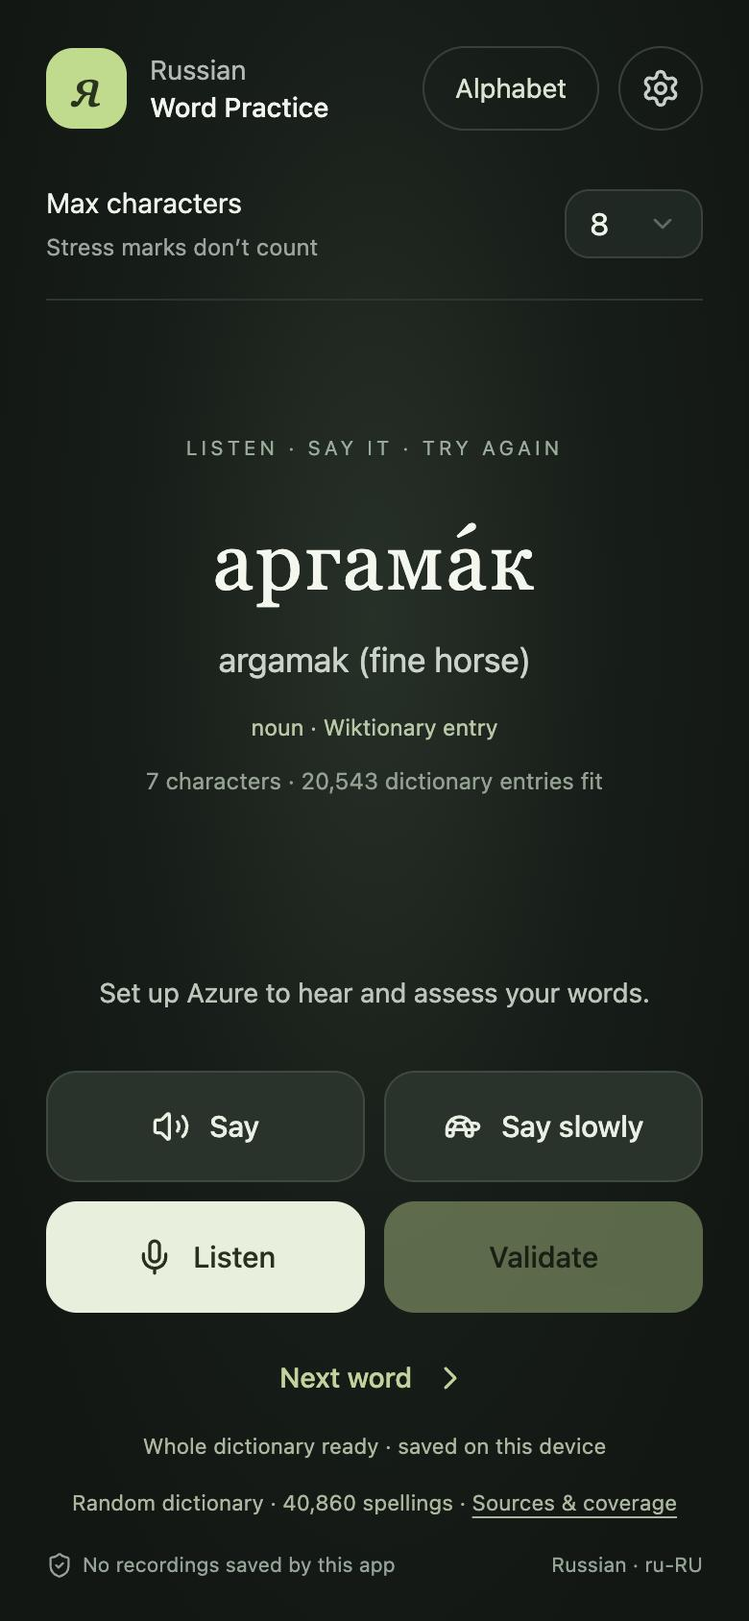
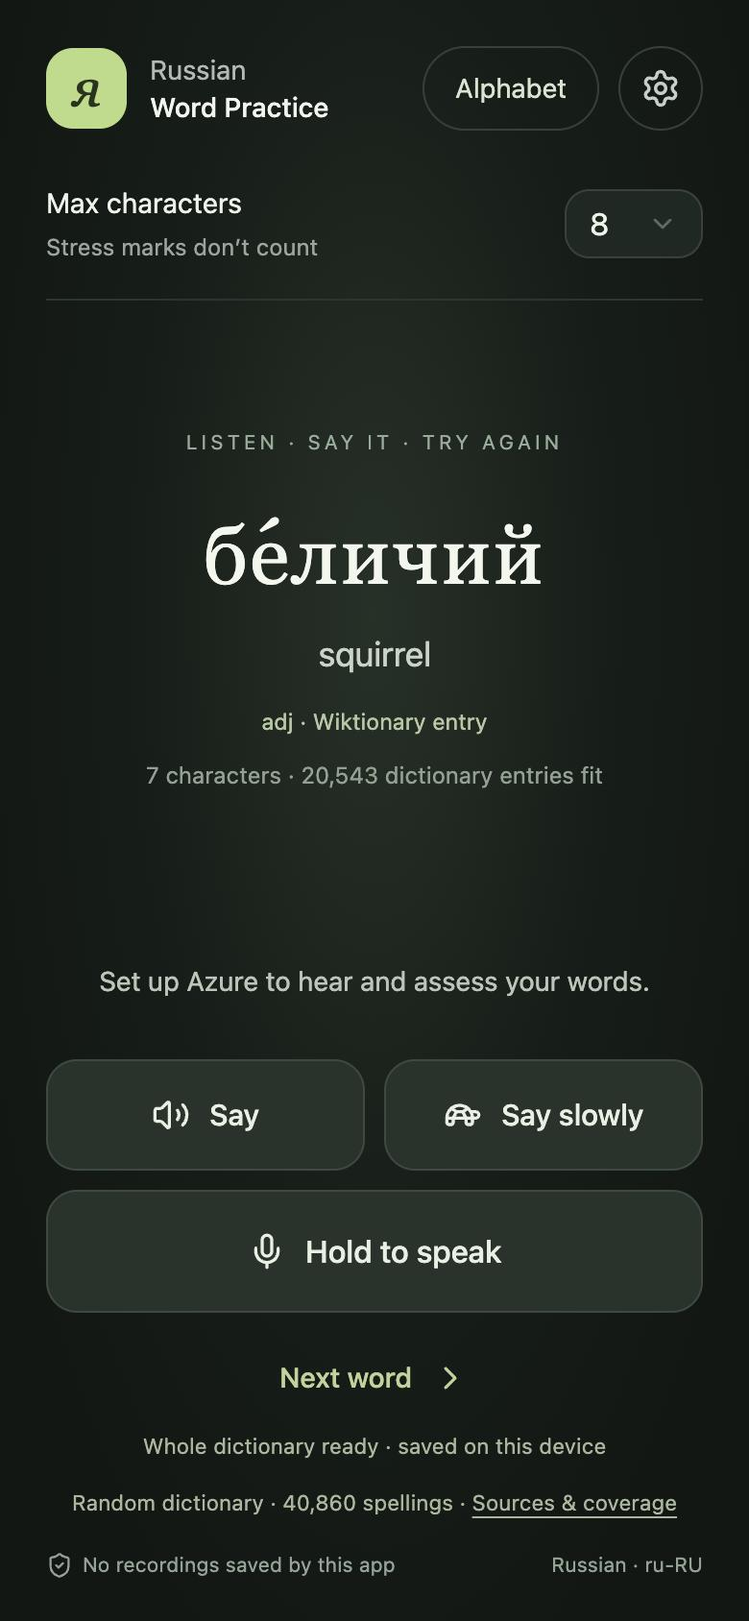
Replace Listen and Validate with one hold-to-speak button
- Hold to record, release to send; quick taps and releases before the
  mic is ready send nothing and explain how to hold. Recording stops at
  8 s while held; Space/Enter work too.
- "Speak now" appears only once real audio arrives (Bluetooth headsets
  send silence while switching profiles); browser noise suppression and
  echo cancellation are off; a Bluetooth mic hint accompanies rough scores.
- The button matches the Say buttons and turns the recording colour
  while held.
- Hiding the app only stops an active recording or playback, instead of
  always showing a "stopped" message and cancelling word loading.
- README and screenshot updated.

diff --git a/app/practice.tsx b/app/practice.tsx
@@ -13,16 +13,16 @@ import {createSpeechClient,readRememberedKey,readRememberedApproval,saveRemember
 import { toWav,trimSilence } from '../lib/audio.mjs';
 type Result={kind:string;message?:string;accuracy?:number;recognized?:string;lowConfidence?:boolean};
 export default function Practice(){
- const [word,setWord]=useState<Word>(initialWord),[max,setMax]=useState(8),[voice,setVoice]=useState('Svetlana'),[phase,setPhase]=useState('idle'),[result,setResult]=useState<Result|null>(null),[message,setMessage]=useState(''),[settings,setSettings]=useState(false),[config,setConfig]=useState({configured:false,enabled:false,setupReady:false,remembered:false}),[key,setKey]=useState(''),[remember,setRemember]=useState(true),[consent,setConsent]=useState(false),[enable,setEnable]=useState(false),[saving,setSaving]=useState(false),[seconds,setSeconds]=useState(0),[letters,setLetters]=useState(false);
+ const [word,setWord]=useState<Word>(initialWord),[max,setMax]=useState(8),[voice,setVoice]=useState('Svetlana'),[phase,setPhase]=useState('idle'),[result,setResult]=useState<Result|null>(null),[message,setMessage]=useState(''),[settings,setSettings]=useState(false),[config,setConfig]=useState({configured:false,enabled:false,setupReady:false,remembered:false}),[key,setKey]=useState(''),[remember,setRemember]=useState(true),[consent,setConsent]=useState(false),[enable,setEnable]=useState(false),[saving,setSaving]=useState(false),[seconds,setSeconds]=useState(0),[letters,setLetters]=useState(false),[micLive,setMicLive]=useState(false);
  const committedMax=useRef(8),requestedMax=useRef(8),epoch=useRef(0),abort=useRef<AbortController|null>(null),play=useRef<HTMLAudioElement|null>(null),objectUrl=useRef(''),stream=useRef<MediaStream|null>(null),context=useRef<AudioContext|null>(null),node=useRef<AudioWorkletNode|null>(null),samples=useRef<Float32Array[]>([]),sampleRate=useRef(48000),timer=useRef<ReturnType<typeof setInterval>|null>(null),wav=useRef<ArrayBuffer|null>(null),captured=useRef(0);
  const [dictionaryStatus,setDictionaryStatus]=useState('Downloading the whole dictionary…');
- const keyRef=useRef(''),speech=useRef<any>(null),spoken=useRef(new Map<string,Blob>());
+ const keyRef=useRef(''),speech=useRef<any>(null),spoken=useRef(new Map<string,Blob>()),signalAt=useRef(-1),bluetooth=useRef(false),holding=useRef(false);
  useEffect(()=>subscribeDictionaryStatus(setDictionaryStatus),[]);
  function browserStorage(){try{return window.localStorage;}catch{return undefined;}}
  function stopMic(){if(timer.current)clearInterval(timer.current);timer.current=null;node.current?.disconnect();node.current=null;stream.current?.getTracks().forEach(t=>t.stop());stream.current=null;void context.current?.close();context.current=null;}
  function cancel(){requestedMax.current=committedMax.current;epoch.current++;abort.current?.abort();abort.current=null;play.current?.pause();play.current=null;if(objectUrl.current)URL.revokeObjectURL(objectUrl.current);objectUrl.current='';stopMic();samples.current=[];wav.current=null;captured.current=0;setPhase('idle');setSeconds(0);}
  useEffect(()=>{const storage=browserStorage();speech.current=createSpeechClient({storage});keyRef.current=readRememberedKey(storage);const approved=readRememberedApproval(storage);setConsent(approved);setEnable(approved);setConfig({configured:!!keyRef.current,enabled:approved,setupReady:true,remembered:!!keyRef.current});void next(8);if('serviceWorker'in navigator)navigator.serviceWorker.register('/sw.js').catch(()=>{});return ()=>{cancel();keyRef.current='';};},[]);
- useEffect(()=>{const hide=()=>{if(document.hidden){cancel();setMessage('Recording or playback stopped while the app was hidden.');}};document.addEventListener('visibilitychange',hide);return()=>document.removeEventListener('visibilitychange',hide);},[]);
+ useEffect(()=>{const hide=()=>{if(document.hidden&&(stream.current||play.current)){cancel();setMessage('Recording or playback stopped while the app was hidden.');}};document.addEventListener('visibilitychange',hide);return()=>document.removeEventListener('visibilitychange',hide);},[]);
  async function next(limit=requestedMax.current){cancel();requestedMax.current=limit;setResult(null);setMessage('');const run=epoch.current;setPhase('word-loading');abort.current=new AbortController();try{const w:any=await chooseWord(limit,word,abort.current.signal);if(run!==epoch.current)return;if(!w||!Number.isInteger(w.id)||typeof w.text!=='string'||typeof w.stress!=='string'||typeof w.meaning!=='string'||typeof w.pos!=='string'||typeof w.source!=='string'||!Number.isInteger(w.length)||w.length<1||w.length>limit)throw new Error('The dictionary response was incomplete. Try Next word again.');setWord(w);committedMax.current=limit;setMax(limit);setPhase('idle');}catch(e:any){if(run===epoch.current){requestedMax.current=committedMax.current;setPhase('idle');setMessage(e.message||'Could not load a word. Try Next word again.');}}}
  async function playPrepared(run=epoch.current){
   const a=play.current;if(!a||run!==epoch.current)return;
@@ -42,9 +42,25 @@ export default function Practice(){
   const cacheKey=[voice,slow,target.text,target.ipa].join('|');let b=spoken.current.get(cacheKey);
   if(!b){b=await speech.current.say({key:keyRef.current,word:target,slow,voice,signal:abort.current.signal}) as Blob;spoken.current.set(cacheKey,b);}
   if(run!==epoch.current)return;objectUrl.current=URL.createObjectURL(b);const a=new Audio(objectUrl.current);play.current=a;a.onended=()=>{if(run===epoch.current){cancel();}};a.onerror=()=>{if(run===epoch.current){cancel();setMessage('Playback failed. Try Say again.');}};await playPrepared(run);}catch(e:any){if(run===epoch.current){cancel();setMessage(e.message||'Playback could not start.');}}}
- function finishCapture(){if(!stream.current)return;stopMic();wav.current=toWav(trimSilence(samples.current,sampleRate.current),sampleRate.current);samples.current=[];setPhase('recorded');setMessage('Ready. Validate sends this clip to Azure.');}
- async function listen(){cancel();setMessage('');setResult(null);if(!config.enabled){setSettings(true);return;}const run=epoch.current;setPhase('permission');try{if(!navigator.mediaDevices?.getUserMedia)throw new Error('Microphone access requires a supported browser and HTTPS.');const s=await navigator.mediaDevices.getUserMedia({audio:{channelCount:1,echoCancellation:true,noiseSuppression:true},video:false});if(run!==epoch.current){s.getTracks().forEach(t=>t.stop());return;}stream.current=s;const c=new AudioContext();context.current=c;sampleRate.current=c.sampleRate;await c.audioWorklet.addModule('/recorder-worklet.js');await c.resume();if(run!==epoch.current){s.getTracks().forEach(t=>t.stop());void c.close();return;}const n=new AudioWorkletNode(c,'practice-recorder');node.current=n;const source=c.createMediaStreamSource(s);source.connect(n);const muted=c.createGain();muted.gain.value=0;n.connect(muted).connect(c.destination);n.port.onmessage=e=>{if(run!==epoch.current||!stream.current)return;const data=e.data as Float32Array;const remaining=Math.max(0,sampleRate.current*8-captured.current);if(remaining>0){const part=data.slice(0,remaining);samples.current.push(part);captured.current+=part.length;}if(captured.current>=sampleRate.current*8)finishCapture();};setPhase('recording');timer.current=setInterval(()=>setSeconds(Math.min(8,Math.floor(captured.current/sampleRate.current))),200);}catch(e:any){if(run===epoch.current){cancel();setMessage(e.name==='NotAllowedError'?'Microphone permission was denied. Allow it in your browser settings, then try again.':e.message||'Could not start the microphone.');}}}
- async function validate(){if(phase==='recording')finishCapture();if(!wav.current)return;const run=epoch.current,body=wav.current;wav.current=null;setPhase('assessing');setMessage('');abort.current=new AbortController();try{const j=await speech.current.assess({key:keyRef.current,word,audio:body,signal:abort.current.signal});if(run===epoch.current){setResult(j);setPhase('idle');}}catch(e:any){if(run===epoch.current){setMessage(e.message||'Assessment failed. Record again.');setPhase('idle');}}}
+ function finishCapture(){if(!stream.current)return;stopMic();wav.current=toWav(trimSilence(samples.current,sampleRate.current),sampleRate.current);samples.current=[];setPhase('recorded');setMessage('Release to check your word.');}
+ async function listen(){cancel();setMessage('');setResult(null);if(!config.enabled){holding.current=false;setSettings(true);return;}const run=epoch.current;setPhase('permission');try{if(!navigator.mediaDevices?.getUserMedia)throw new Error('Microphone access requires a supported browser and HTTPS.');const s=await navigator.mediaDevices.getUserMedia({audio:{channelCount:1,echoCancellation:false,noiseSuppression:false,autoGainControl:true},video:false});if(run!==epoch.current){s.getTracks().forEach(t=>t.stop());return;}stream.current=s;
+  // Browser noise suppression distorts speech for recognition; nothing plays while recording, so echo cancellation is not needed either.
+  bluetooth.current=/bluetooth|airpods|headset|hands-?free|buds/i.test(s.getAudioTracks?.()[0]?.label??'');signalAt.current=-1;setMicLive(false);const c=new AudioContext();context.current=c;sampleRate.current=c.sampleRate;await c.audioWorklet.addModule('/recorder-worklet.js');await c.resume();if(run!==epoch.current){s.getTracks().forEach(t=>t.stop());void c.close();return;}const n=new AudioWorkletNode(c,'practice-recorder');node.current=n;const source=c.createMediaStreamSource(s);source.connect(n);const muted=c.createGain();muted.gain.value=0;n.connect(muted).connect(c.destination);
+  // Released before the microphone was ready (for example to answer the permission prompt): nothing to check.
+  if(!holding.current){cancel();setMessage('Hold the button while you say the word.');return;}n.port.onmessage=e=>{if(run!==epoch.current||!stream.current)return;const data=e.data as Float32Array;
+   // Bluetooth headsets switch to their call profile when recording starts and send silence until then; say "Speak now" only once real audio arrives.
+   if(signalAt.current<0&&data.some(v=>v!==0))signalAt.current=captured.current;
+   const remaining=Math.max(0,sampleRate.current*8-captured.current);if(remaining>0){const part=data.slice(0,remaining);samples.current.push(part);captured.current+=part.length;}
+   if(signalAt.current>=0&&captured.current-signalAt.current>=sampleRate.current*0.2)setMicLive(true);if(captured.current>=sampleRate.current*8)finishCapture();};setPhase('recording');timer.current=setInterval(()=>setSeconds(Math.min(8,Math.floor(captured.current/sampleRate.current))),200);}catch(e:any){if(run===epoch.current){cancel();setMessage(e.name==='NotAllowedError'?'Microphone permission was denied. Allow it in your browser settings, then try again.':e.message||'Could not start the microphone.');}}}
+ // One button: hold to record, release to send the clip to Azure.
+ function press(){holding.current=true;void listen();}
+ function release(){
+  if(!holding.current)return;holding.current=false;
+  if(!stream.current&&!wav.current)return;
+  if(!wav.current&&captured.current<sampleRate.current*0.3){cancel();setMessage('Hold the button while you say the word.');return;}
+  void validate();
+ }
+ async function validate(){finishCapture();if(!wav.current)return;const run=epoch.current,body=wav.current;wav.current=null;setPhase('assessing');setMessage('');abort.current=new AbortController();try{const j=await speech.current.assess({key:keyRef.current,word,audio:body,signal:abort.current.signal});if(run===epoch.current){setResult(j);setPhase('idle');}}catch(e:any){if(run===epoch.current){setMessage(e.message||'Assessment failed. Record again.');setPhase('idle');}}}
  async function save(e:React.FormEvent){e.preventDefault();if(saving||!config.setupReady)return;setSaving(true);setMessage('');try{const value=key.trim()||keyRef.current;if(!validKey(value))throw new Error('Enter a valid Azure Speech key.');if(!consent)throw new Error('Approve direct Azure requests to continue.');saveRememberedKey(browserStorage(),value,remember,enable);keyRef.current=value;setKey('');setConfig({configured:true,enabled:enable,setupReady:true,remembered:remember});setSettings(false);setMessage(!enable?'Key ready on this device. Azure calls remain disabled.':remember?'Setup saved on this device. You won’t need to enter it again.':'Direct Azure calls enabled for this session.');}catch(e:any){setMessage(e.message||'Browser storage is unavailable. Leave Remember unchecked.');}finally{setSaving(false);}}
  function disconnect(){cancel();keyRef.current='';setKey('');setConsent(false);setEnable(false);setConfig({configured:false,enabled:false,setupReady:true,remembered:false});try{saveRememberedKey(browserStorage(),'',false);setRemember(true);setMessage('Key forgotten on this device. Azure requests already sent may still finish.');setSettings(false);}catch{setMessage('Key cleared from memory. Browser storage removal failed; clear this site’s stored data to remove the saved key.');}}
  useEffect(()=>{const mc=(document as any).modelContext;if(!mc?.registerTool)return;const lifecycle=new AbortController();void Promise.resolve(mc.registerTool({name:'read_practice_word',description:'Read the displayed Russian word and its English meaning. Does not record or contact Azure.',inputSchema:{type:'object',properties:{},additionalProperties:false},annotations:{readOnlyHint:true},execute:(input:any)=>{if(!input||Object.keys(input).length)throw new Error('No arguments expected');return {word:word.stress,meaning:word.meaning,maxCharacters:max};}},{signal:lifecycle.signal})).catch(()=>{});return()=>lifecycle.abort();},[word,max]);
@@ -52,8 +68,8 @@ export default function Practice(){
  return <main className="practice-shell"><header><div className="brand"><span className="brandmark" lang="ru">я</span><span>Russian<br/><strong>Word Practice</strong></span></div><div className="header-actions"><button className="pill-button" disabled={!config.setupReady} onClick={()=>{cancel();setMessage('');setLetters(true);}}>Alphabet</button><button className="icon-button" aria-label="Open Azure setup" disabled={!config.setupReady} onClick={()=>{cancel();setSettings(true);}}><Settings size={21}/></button></div></header>
  <section className="toolbar"><label htmlFor="max">Max characters <span>Stress marks don’t count</span></label><Select value={String(max)} onValueChange={v=>{const n=Number(v);void next(n);}}><SelectTrigger id="max" className="number-select"><SelectValue/></SelectTrigger><SelectContent>{Array.from({length:maxWordLength},(_,i)=>i+1).map(n=><SelectItem key={n} value={String(n)}>{n}</SelectItem>)}</SelectContent></Select></section>
  <section className="word-stage" aria-label="Current practice word"><div className="eyebrow">LISTEN · SAY IT · TRY AGAIN</div><h1 lang="ru" style={{fontSize:`min(4.25rem, ${Math.min(10.8,130/word.length)}vw)`}}>{word.stress}</h1><p className="meaning">{word.meaning}</p><a className="dictionary-source" href={word.source} target="_blank" rel="noreferrer">{word.pos} · Wiktionary entry</a><span className="word-count">{word.length} characters · {lengthCounts[String(max) as keyof typeof lengthCounts].toLocaleString()} dictionary entries fit</span></section>
- <section className="feedback" aria-live="polite">{phase==='word-loading'?<p>{dictionaryStatus}</p>:phase==='recording'?<div className="recording"><span className="pulse"/>Listening… {seconds}s / 8s</div>:phase==='assessing'?<p>Checking with Azure…</p>:phase==='loading'?<p>Preparing the Russian voice…</p>:phase==='playback-starting'?<p>Starting audio…</p>:phase==='playing'?<p>Listen to the word</p>:phase==='permission'?<p>Waiting for microphone permission…</p>:result?.kind==='scored'?<div className="score"><strong>{result.accuracy}<small>/100</small></strong><div>Azure word accuracy<span>{result.lowConfidence?'Azure wasn’t sure what it heard, so treat this as rough':'A practice estimate, not a stress check'}</span></div></div>:<p>{result?.message||message||(config.enabled?'One word. As many tries as you need.':!config.setupReady?'Restoring your setup…':config.remembered?'Saved key restored. Approve and enable Azure calls once in Settings to finish setup.':config.configured?'Your key is ready. Enable Azure calls for this session in Settings.':'Set up Azure to hear and assess your words.')}</p>}</section>
- <div className="controls">{phase==='playback-ready'&&<button onClick={()=>void playPrepared()}>Play audio</button>}<div className="two"><button onClick={()=>say()} disabled={!config.setupReady||phase==='assessing'||phase==='word-loading'}><Volume2/>Say</button><button onClick={()=>say(true)} disabled={!config.setupReady||phase==='assessing'||phase==='word-loading'}><Turtle/>Say slowly</button></div><div className="two"><button className={phase==='recording'?'listening':'listen'} onClick={listen} disabled={!config.setupReady||phase==='permission'||phase==='assessing'||phase==='word-loading'}><Mic/>{phase==='recording'?'Restart':'Listen'}</button><button className="validate" onClick={validate} disabled={!['recording','recorded'].includes(phase)}>Validate</button></div><button className="next" onClick={()=>next()}>Next word <ChevronRight size={19}/></button></div>
+ <section className="feedback" aria-live="polite">{phase==='word-loading'?<p>{dictionaryStatus}</p>:phase==='recording'?<div className="recording"><span className="pulse"/>{micLive?`Speak now… ${seconds}s / 8s`:'Starting microphone…'}</div>:phase==='assessing'?<p>Checking with Azure…</p>:phase==='loading'?<p>Preparing the Russian voice…</p>:phase==='playback-starting'?<p>Starting audio…</p>:phase==='playing'?<p>Listen to the word</p>:phase==='permission'?<p>Waiting for microphone permission…</p>:result?.kind==='scored'?<div className="score"><strong>{result.accuracy}<small>/100</small></strong><div>Azure word accuracy<span>{result.lowConfidence?(bluetooth.current?'Azure wasn’t sure what it heard. Bluetooth mics record at phone-call quality; the phone’s own mic works better':'Azure wasn’t sure what it heard, so treat this as rough'):'A practice estimate, not a stress check'}</span></div></div>:<p>{result?.message||message||(config.enabled?'One word. As many tries as you need.':!config.setupReady?'Restoring your setup…':config.remembered?'Saved key restored. Approve and enable Azure calls once in Settings to finish setup.':config.configured?'Your key is ready. Enable Azure calls for this session in Settings.':'Set up Azure to hear and assess your words.')}</p>}</section>
+ <div className="controls">{phase==='playback-ready'&&<button onClick={()=>void playPrepared()}>Play audio</button>}<div className="two"><button onClick={()=>say()} disabled={!config.setupReady||phase==='assessing'||phase==='word-loading'}><Volume2/>Say</button><button onClick={()=>say(true)} disabled={!config.setupReady||phase==='assessing'||phase==='word-loading'}><Turtle/>Say slowly</button></div><button className={`speak${['permission','recording','recorded'].includes(phase)?' listening':''}`} disabled={!config.setupReady||phase==='assessing'||phase==='word-loading'} onPointerDown={e=>{if(e.button>0)return;e.currentTarget.setPointerCapture?.(e.pointerId);press();}} onPointerUp={release} onPointerCancel={()=>{if(holding.current){holding.current=false;cancel();setMessage('Recording cancelled.');}}} onKeyDown={e=>{if((e.key===' '||e.key==='Enter')&&!e.repeat){e.preventDefault();press();}}} onKeyUp={e=>{if(e.key===' '||e.key==='Enter'){e.preventDefault();release();}}} onContextMenu={e=>e.preventDefault()}><Mic/>{phase==='assessing'?'Checking…':['permission','recording','recorded'].includes(phase)?'Release to check':'Hold to speak'}</button><button className="next" onClick={()=>next()}>Next word <ChevronRight size={19}/></button></div>
  <p className="dictionary-note" role="status">{dictionaryStatus}</p><p className="dictionary-note">Random dictionary · {dictionarySize.toLocaleString()} spellings · <a href="/dictionary-sources" target="_blank" rel="noreferrer">Sources &amp; coverage</a></p><footer>{active?<button className="text-button" onClick={()=>{const sent=phase==='assessing',choosing=phase==='word-loading';cancel();setMessage(choosing?'Word selection cancelled.':sent?'Stopped waiting. Azure may already be processing this clip.':'Cancelled. Your clip was discarded.');}}><X size={14}/>Cancel</button>:<span><ShieldCheck size={14}/>No recordings saved by this app</span>}<span>Russian · ru-RU</span></footer>
- <Dialog open={settings} onOpenChange={v=>{if(!saving){setSettings(v);if(!v)setKey('');}}}><DialogContent className="setup-dialog"><DialogHeader><DialogTitle>Azure Speech setup</DialogTitle><DialogDescription>Your own Azure account · East US</DialogDescription></DialogHeader><form onSubmit={save}><p>Say sends the displayed word to Azure. Validate sends up to 8 seconds of your voice directly from your browser to Microsoft Azure in East US. Recordings and generated speech stay in memory and are never saved by this app.</p><p className="muted">Azure processes these requests under its own service terms. Russian scores are approximate: they do not identify stress errors or reliably diagnose individual sounds.</p><label className="field">Voice<Select value={voice} onValueChange={setVoice}><SelectTrigger><SelectValue/></SelectTrigger><SelectContent><SelectItem value="Svetlana">Svetlana</SelectItem><SelectItem value="Dmitry">Dmitry</SelectItem></SelectContent></Select></label><p className="muted">Both voices are supported. Dictionary IPA is adapted for Azure; synthesized pronunciations still need listening checks.</p><label className="field">{config.configured?'Replacement Azure Speech key (optional)':'Your Azure Speech key'}<input type="password" value={key} onChange={e=>setKey(e.target.value)} autoComplete="off" spellCheck={false} required={!config.configured} placeholder={config.configured?'Key ready on this device; enter to replace':'Enter your own East US resource key'}/></label><p className="muted">{config.remembered?'Your saved key is ready. You do not need to enter your key again.':config.configured?'Your key is ready for this session. Leave the replacement field blank to keep it.':'Your key never goes to this app’s host. Each person uses their own Azure account.'}</p><p className="muted">Remember keeps your key and these approvals on this browser through reloads and app updates, so you set up once. Without Remember, closing or reloading clears them. Forget key removes both.</p><label className="check"><Checkbox checked={remember} onCheckedChange={v=>setRemember(v===true)}/><span>Remember my key on this device. This stores it in browser storage, readable by this app and anyone with access to this browser profile. Don’t use on a shared device.</span></label><label className="check"><Checkbox checked={consent} onCheckedChange={v=>setConsent(v===true)}/><span>I approve sending my key directly to Microsoft Azure for authentication, and displayed words and submitted recordings to Azure Speech in East US.</span></label><label className="check"><Checkbox checked={enable} onCheckedChange={v=>setEnable(v===true)}/><span>Enable Azure calls. Azure charges may apply; use Azure’s quotas and budgets to cap spending.</span></label><button className="validate full" disabled={!config.setupReady||!consent||(!key&&!config.configured)||saving}>Save setup</button>{config.configured&&<button type="button" className="disconnect" disabled={saving} onClick={disconnect}>Forget key on this device</button>}<p className="muted">No audio or scores are saved. A short-lived Azure token is held in memory and used in Azure’s WebSocket connection URL. Clear the key here or rotate it in Azure to revoke access. Previously sent requests may still finish.</p><p className="setup-message" role="status">{message}</p></form></DialogContent></Dialog><Dialog open={letters} onOpenChange={v=>{setLetters(v);if(!v)cancel();}}><DialogContent className="setup-dialog alphabet-dialog"><DialogHeader><DialogTitle>Russian alphabet</DialogTitle><DialogDescription>33 letters · sounds in IPA</DialogDescription></DialogHeader><p className="alphabet-status" role="status">{phase==='loading'?'Preparing the Russian voice…':phase==='playback-starting'?'Starting audio…':phase==='playing'?'Listen':message||'Tap a letter to hear its sound. Unstressed vowels only occur inside words, so their button plays an example word.'}</p>{phase==='playback-ready'&&<button className="validate full" onClick={()=>void playPrepared()}>Play audio</button>}<ol className="alphabet">{alphabet.map(l=><li key={l.upper} className={l.kind}>{l.sound?<button className="letter" lang="ru" aria-label={`${l.upper} ${l.lower}, ${l.name}: play ${l.sound.ipa}`} disabled={phase==='assessing'} onClick={()=>void say(false,{text:l.lower,ipa:l.sound.say})}>{l.upper}{l.lower}</button>:<span className="letter" lang="ru">{l.upper}{l.lower}</span>}<span className="name" lang="ru">{l.name}</span>{l.sound&&<span className="ipa">{l.kind==='vowel'?'stressed ':''}{l.sound.ipa}</span>}{l.unstressed&&<button className="ipa unstressed" aria-label={`${l.lower} unstressed ${l.unstressed.ipa}: play ${l.unstressed.example}`} disabled={phase==='assessing'} onClick={()=>void say(false,{text:l.unstressed!.text})}>unstressed {l.unstressed.ipa}<span className="example" lang="ru">▶ {l.unstressed.example}</span></button>}{l.note&&<span className="note">{l.note}</span>}</li>)}</ol></DialogContent></Dialog></main>;
+ <Dialog open={settings} onOpenChange={v=>{if(!saving){setSettings(v);if(!v)setKey('');}}}><DialogContent className="setup-dialog"><DialogHeader><DialogTitle>Azure Speech setup</DialogTitle><DialogDescription>Your own Azure account · East US</DialogDescription></DialogHeader><form onSubmit={save}><p>Say sends the displayed word to Azure. Hold to speak records up to 8 seconds of your voice; releasing sends it directly from your browser to Microsoft Azure in East US. Recordings and generated speech stay in memory and are never saved by this app.</p><p className="muted">Azure processes these requests under its own service terms. Russian scores are approximate: they do not identify stress errors or reliably diagnose individual sounds.</p><label className="field">Voice<Select value={voice} onValueChange={setVoice}><SelectTrigger><SelectValue/></SelectTrigger><SelectContent><SelectItem value="Svetlana">Svetlana</SelectItem><SelectItem value="Dmitry">Dmitry</SelectItem></SelectContent></Select></label><p className="muted">Both voices are supported. Dictionary IPA is adapted for Azure; synthesized pronunciations still need listening checks.</p><label className="field">{config.configured?'Replacement Azure Speech key (optional)':'Your Azure Speech key'}<input type="password" value={key} onChange={e=>setKey(e.target.value)} autoComplete="off" spellCheck={false} required={!config.configured} placeholder={config.configured?'Key ready on this device; enter to replace':'Enter your own East US resource key'}/></label><p className="muted">{config.remembered?'Your saved key is ready. You do not need to enter your key again.':config.configured?'Your key is ready for this session. Leave the replacement field blank to keep it.':'Your key never goes to this app’s host. Each person uses their own Azure account.'}</p><p className="muted">Remember keeps your key and these approvals on this browser through reloads and app updates, so you set up once. Without Remember, closing or reloading clears them. Forget key removes both.</p><label className="check"><Checkbox checked={remember} onCheckedChange={v=>setRemember(v===true)}/><span>Remember my key on this device. This stores it in browser storage, readable by this app and anyone with access to this browser profile. Don’t use on a shared device.</span></label><label className="check"><Checkbox checked={consent} onCheckedChange={v=>setConsent(v===true)}/><span>I approve sending my key directly to Microsoft Azure for authentication, and displayed words and submitted recordings to Azure Speech in East US.</span></label><label className="check"><Checkbox checked={enable} onCheckedChange={v=>setEnable(v===true)}/><span>Enable Azure calls. Azure charges may apply; use Azure’s quotas and budgets to cap spending.</span></label><button className="validate full" disabled={!config.setupReady||!consent||(!key&&!config.configured)||saving}>Save setup</button>{config.configured&&<button type="button" className="disconnect" disabled={saving} onClick={disconnect}>Forget key on this device</button>}<p className="muted">No audio or scores are saved. A short-lived Azure token is held in memory and used in Azure’s WebSocket connection URL. Clear the key here or rotate it in Azure to revoke access. Previously sent requests may still finish.</p><p className="setup-message" role="status">{message}</p></form></DialogContent></Dialog><Dialog open={letters} onOpenChange={v=>{setLetters(v);if(!v)cancel();}}><DialogContent className="setup-dialog alphabet-dialog"><DialogHeader><DialogTitle>Russian alphabet</DialogTitle><DialogDescription>33 letters · sounds in IPA</DialogDescription></DialogHeader><p className="alphabet-status" role="status">{phase==='loading'?'Preparing the Russian voice…':phase==='playback-starting'?'Starting audio…':phase==='playing'?'Listen':message||'Tap a letter to hear its sound. Unstressed vowels only occur inside words, so their button plays an example word.'}</p>{phase==='playback-ready'&&<button className="validate full" onClick={()=>void playPrepared()}>Play audio</button>}<ol className="alphabet">{alphabet.map(l=><li key={l.upper} className={l.kind}>{l.sound?<button className="letter" lang="ru" aria-label={`${l.upper} ${l.lower}, ${l.name}: play ${l.sound.ipa}`} disabled={phase==='assessing'} onClick={()=>void say(false,{text:l.lower,ipa:l.sound.say})}>{l.upper}{l.lower}</button>:<span className="letter" lang="ru">{l.upper}{l.lower}</span>}<span className="name" lang="ru">{l.name}</span>{l.sound&&<span className="ipa">{l.kind==='vowel'?'stressed ':''}{l.sound.ipa}</span>}{l.unstressed&&<button className="ipa unstressed" aria-label={`${l.lower} unstressed ${l.unstressed.ipa}: play ${l.unstressed.example}`} disabled={phase==='assessing'} onClick={()=>void say(false,{text:l.unstressed!.text})}>unstressed {l.unstressed.ipa}<span className="example" lang="ru">▶ {l.unstressed.example}</span></button>}{l.note&&<span className="note">{l.note}</span>}</li>)}</ol></DialogContent></Dialog></main>;
 }

diff --git a/app/globals.css b/app/globals.css
@@ -6,3 +6,6 @@
 .dictionary-source{font-size:.73rem;color:#b4c8a3;text-underline-offset:3px;margin-bottom:10px}.dictionary-note{font-size:.7rem;color:#a7b79b;text-align:center;margin:3px 0 10px}.dictionary-note a,.sources-page a{text-decoration:underline;text-underline-offset:3px}.word-stage h1{max-width:100%;overflow-wrap:anywhere}.sources-page{max-width:760px;margin:0 auto;padding:30px 24px;line-height:1.65;color:#d3dfcb}.sources-page h1{font-size:2rem;margin:24px 0}.sources-page p{margin:18px 0}.sources-page a{color:#c5e697}
 .header-actions{display:flex;align-items:center;gap:10px}.pill-button{height:44px;padding:0 16px;border:1px solid #354039;border-radius:22px;background:transparent;color:#d6e3cf;font-size:.875rem}.alphabet-status{min-height:2.9em;color:#c8d3c6}.alphabet{list-style:none;margin:0;padding:0;display:grid;grid-template-columns:repeat(auto-fill,minmax(96px,1fr));gap:8px}.alphabet li{display:flex;flex-direction:column;align-items:center;gap:3px;padding:10px 6px;border:1px solid #33402f;border-radius:12px;background:#1f2a22;text-align:center}.alphabet .letter{font-family:Georgia,"Times New Roman",serif;font-size:1.9rem;letter-spacing:.06em;line-height:1.15;background:transparent;border:0;color:#f2f7ec;padding:2px 8px;border-radius:8px}.alphabet button.letter:hover{background:#2c3a30}.alphabet .name{font-size:.8rem;color:#c8d3c6}.alphabet .ipa{font-size:.78rem;color:#c5e697}.alphabet .unstressed{background:#26322a;border:1px solid #3b493e;border-radius:8px;padding:3px 7px;color:#d8e8c3}.alphabet .note{font-size:.68rem;color:#98a59b;line-height:1.3}.alphabet .sign .letter{color:#a7b79b}
 .alphabet .unstressed .example{display:block;font-family:Georgia,"Times New Roman",serif;font-size:.95rem;letter-spacing:.03em;color:#f2f7ec;margin-top:2px}
+.controls .speak{min-height:64px;font-size:1rem;touch-action:none;user-select:none;-webkit-user-select:none;-webkit-touch-callout:none}
+/* Same look as Say until pressed; recording colour while held, including under a hovering mouse. */
+.controls .speak.listening,.controls .speak.listening:hover{background:#654336;border-color:#ae826d;color:#f6e9e2}

diff --git a/README.md b/README.md
@@ -4,11 +4,11 @@ An installable web app (PWA) for practising Russian pronunciation, one word at a
 
 - **Random dictionary words**: 40,860 spellings with stress marks, English meanings and Wiktionary links. Choose a maximum word length from 1 to 32 letters.
 - **Say / Say slowly**: hear the word from an Azure neural voice (Svetlana or Dmitry), at normal or half speed.
-- **Listen / Validate**: record up to eight seconds and get an approximate Azure pronunciation score.
+- **Hold to speak**: hold the button while you say the word (up to eight seconds); release it to get an approximate Azure pronunciation score.
 - **Alphabet**: the 33 letters in standard order with their names and IPA sounds. Tap a letter to hear its sound. Vowels also show their unstressed (reduced) sound, played inside an example word such as ма́ма or молоко́.
 
 <p align="center">
-  <img src="docs/screenshots/practice.jpg" alt="Practice screen showing the word аргама́к with Say, Say slowly, Listen and Validate buttons" width="300">
+  <img src="docs/screenshots/practice.jpg" alt="Practice screen showing the word бе́личий with Say, Say slowly and Hold to speak buttons" width="300">
   <img src="docs/screenshots/alphabet.jpg" alt="Alphabet panel showing letters with names, IPA sounds and unstressed example words" width="300">
 </p>
 
@@ -48,7 +48,7 @@ Test suites (`npm test`):
 - `tests/dictionary.test.mjs`: full dictionary counts, licensing/provenance, stress and selection coverage
 - `tests/client.test.mjs`: direct token destination/header, key and approval storage, SDK cleanup, cancellation, Azure error details, no local request limit and Fly config
 - `tests/full-dictionary.test.mjs`: one-download coverage, offline selection, worker cancellation, timeouts, retry, corrupt cache, quota failure and content-version replacement
-- `tests/lifecycle.test.mjs`: remembered setup across reloads, Forget, mocked denied microphone, late permissions/results, playback recovery, Alphabet playback and caching, Next/Cancel, failed dictionary selection and rapid length changes
+- `tests/lifecycle.test.mjs`: remembered setup across reloads, Forget, hold-to-speak (quick taps, early release, 8-second stop, live-mic detection, Bluetooth hint), mocked denied microphone, late permissions/results, playback recovery, Alphabet playback and caching, Next/Cancel, failed dictionary selection and rapid length changes
 
 ## Architecture
 
@@ -62,7 +62,7 @@ A static, multi-user Russian pronunciation PWA. React + TypeScript in the browse
 - Alphabet panel: the 33 letters in standard order with names and IPA; tapping a letter plays its sound (consonants with a short neutral vowel, as in "buh"). Vowels also show their unstressed sound, played inside a common example word, because Azure voices an isolated reduced vowel as a full one
 - Generated speech is kept in memory for the session, so replaying a word or letter does not call Azure again
 - When Azure refuses a request, the app shows Azure's own reason (query strings stripped) instead of a generic error
-- Up to eight seconds of microphone audio; Validate submits the recording, Next/Cancel discard it
+- Hold to speak records up to eight seconds of microphone audio ("Speak now" appears once the mic is actually live, which matters for Bluetooth headsets); releasing trims the silence and submits it. A quick tap sends nothing, and Next/Cancel discard the clip. Browser noise suppression is off because it distorts speech for recognition
 - Conservative Azure pronunciation estimates, not a Russian stress or individual-phoneme diagnosis
 - Installable mobile PWA with a dictionary-only local cache; no persistent audio/score cache or offline speech library
 
@@ -89,7 +89,7 @@ To run your own on Fly:
 1. Install the Fly CLI and sign in with `fly auth login`.
 2. Create an app with your own name, for example `fly apps create my-russian-practice`, and set `app` (and, if you like, `primary_region`) in `fly.toml`.
 3. Deploy one machine: `fly deploy --app my-russian-practice --ha=false`. A shared IPv4/IPv6 address is enough; you don't need a dedicated IPv4.
-4. Open the app's HTTPS URL, set up your Azure key and try Say, Listen and Validate.
+4. Open the app's HTTPS URL, set up your Azure key and try Say and Hold to speak.
 
 `fly.toml` lets the machine stop when idle and start on the next request:
 
